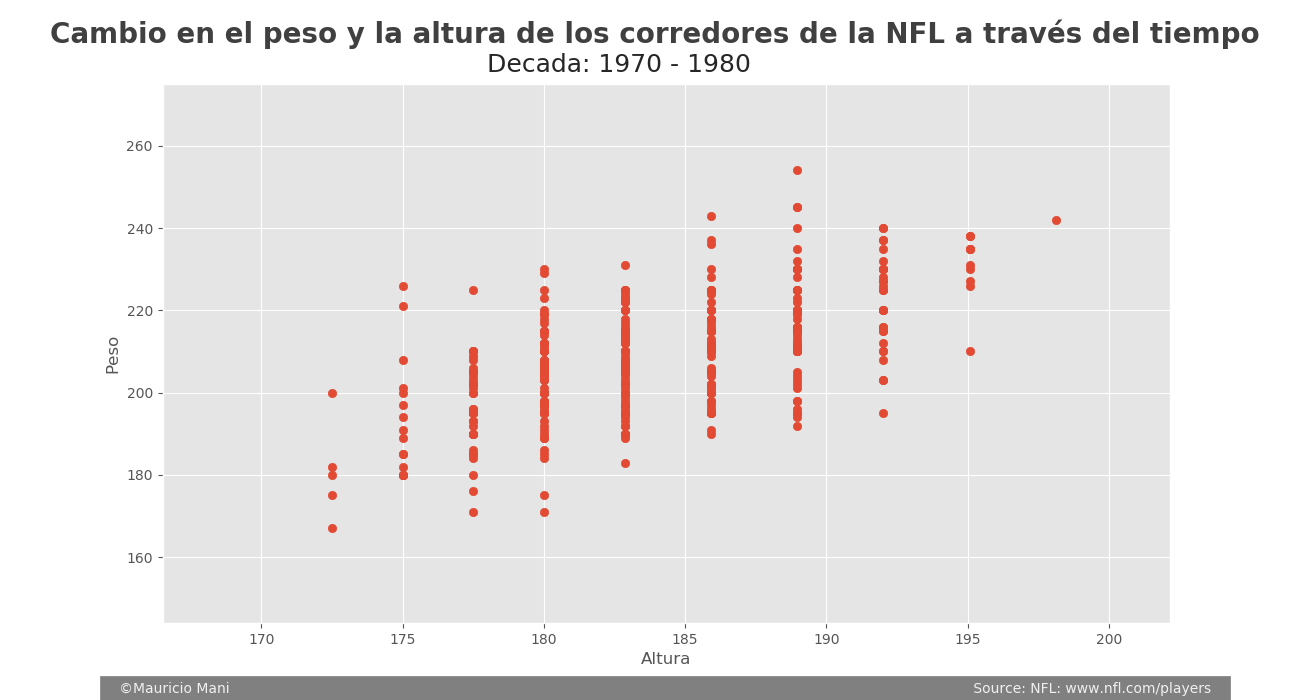
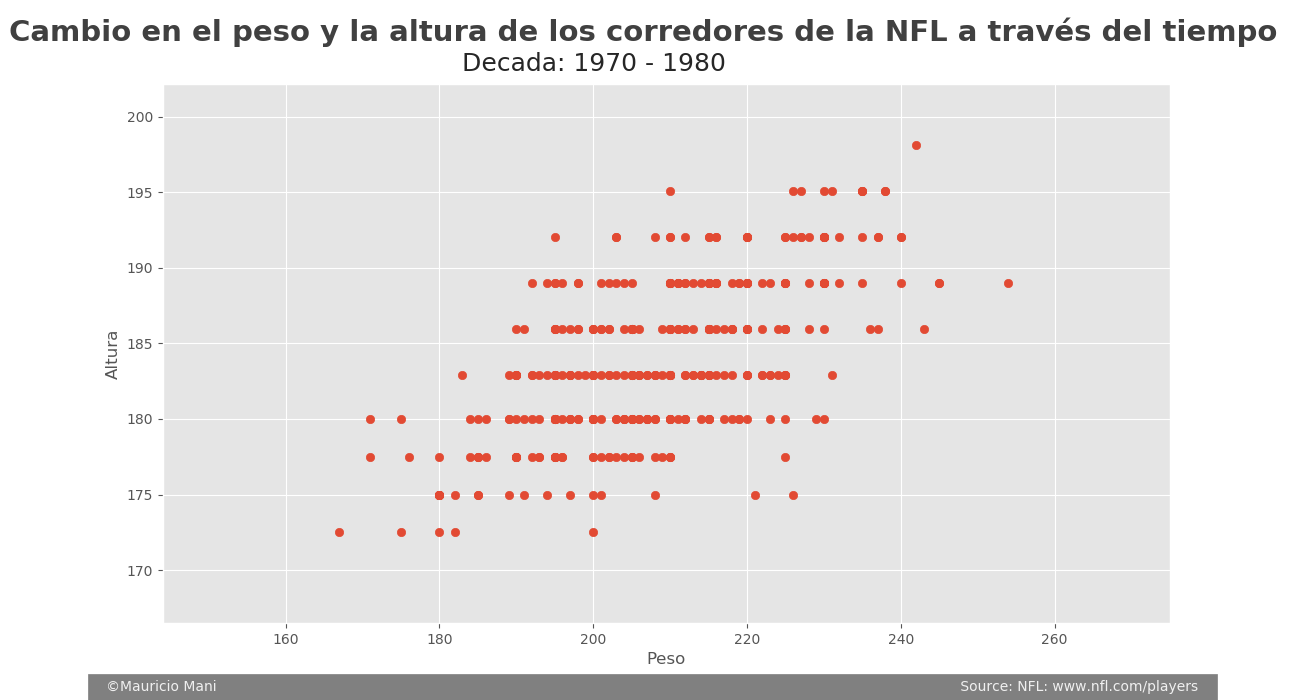
Update README.md

diff --git a/README-en.md b/README-en.md
@@ -54,8 +54,8 @@ Warrick Dunn (175cm). Thomas Jones, Ricky Williams, Bryan Westbrook, LaDainian T
 The image shows how height and weight have changed over decades, since 1920 till 2017 season. 
 Over the fiftys and till the seventies height distribution is found on the right and in the later seasons 
 it went back to a 181cm mean. 
-The horizontal axis shows the height and the vertical axis shows the weight. So an increase in the height would move observations to
-the right and an increase in weight would make observations go up. It seems running backs are stronger nowadays and smaller
+The horizontal axis shows the weight and the vertical axis shows the height. So an increase in the height would rise observations
+and an increase in weight would move observations to the right. It seems running backs are stronger nowadays and smaller
 than before the eighties.
 In order to understand the learning process over running backs we would make some boxplots. Understanding the is difficult
 so we would use a 2017 season example.
